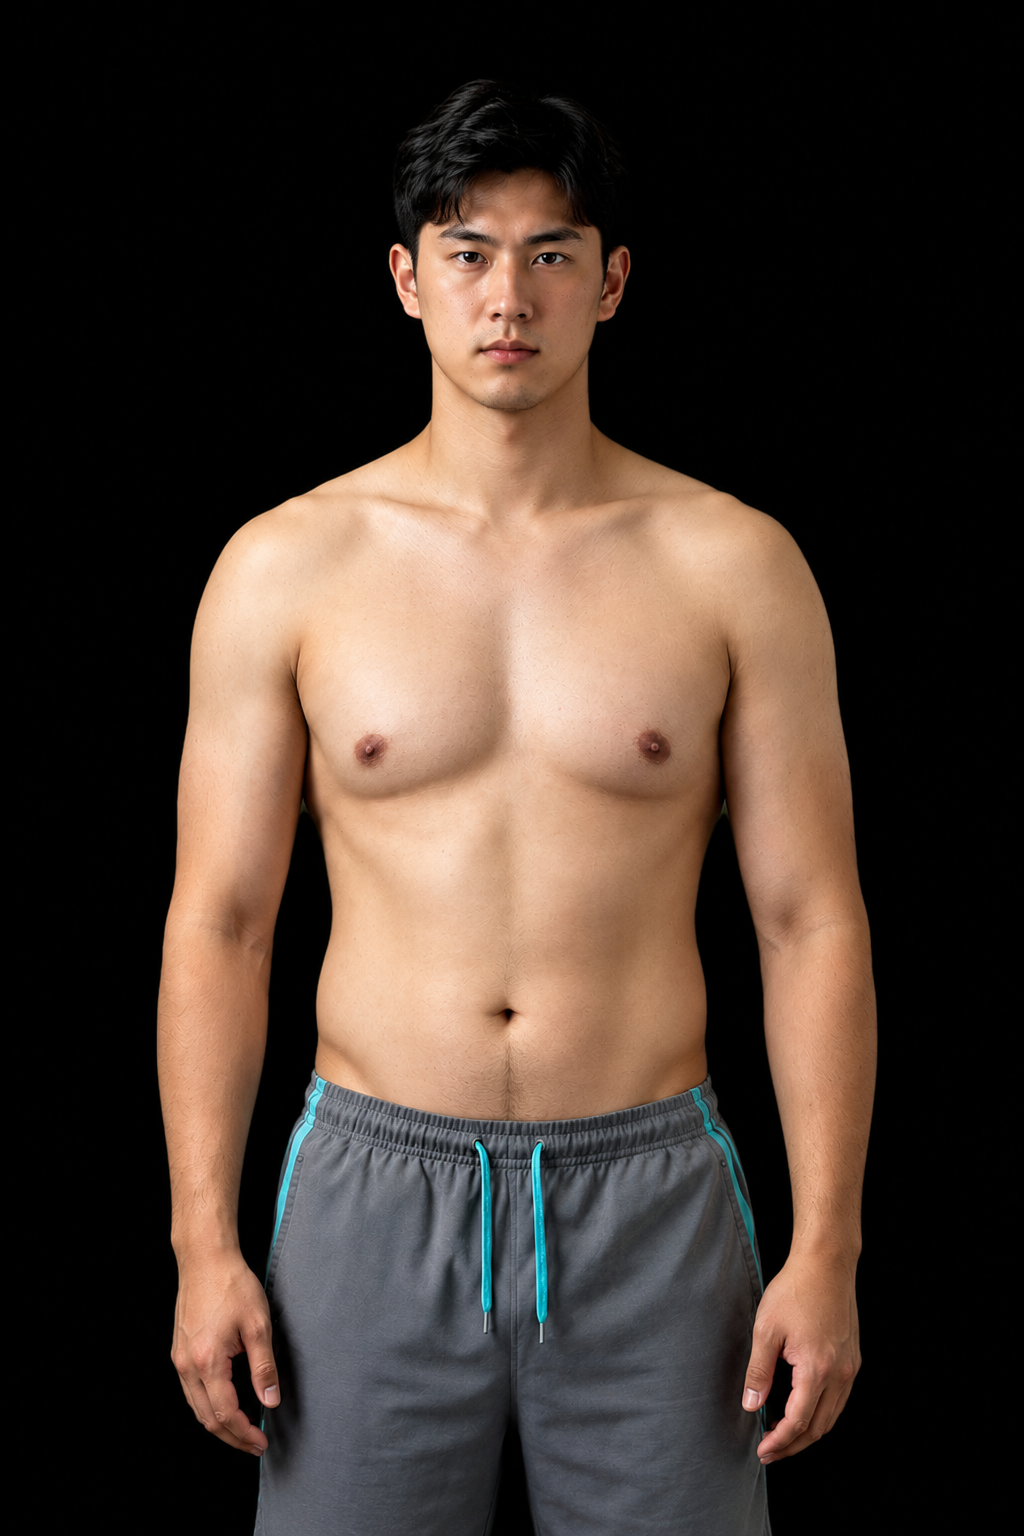
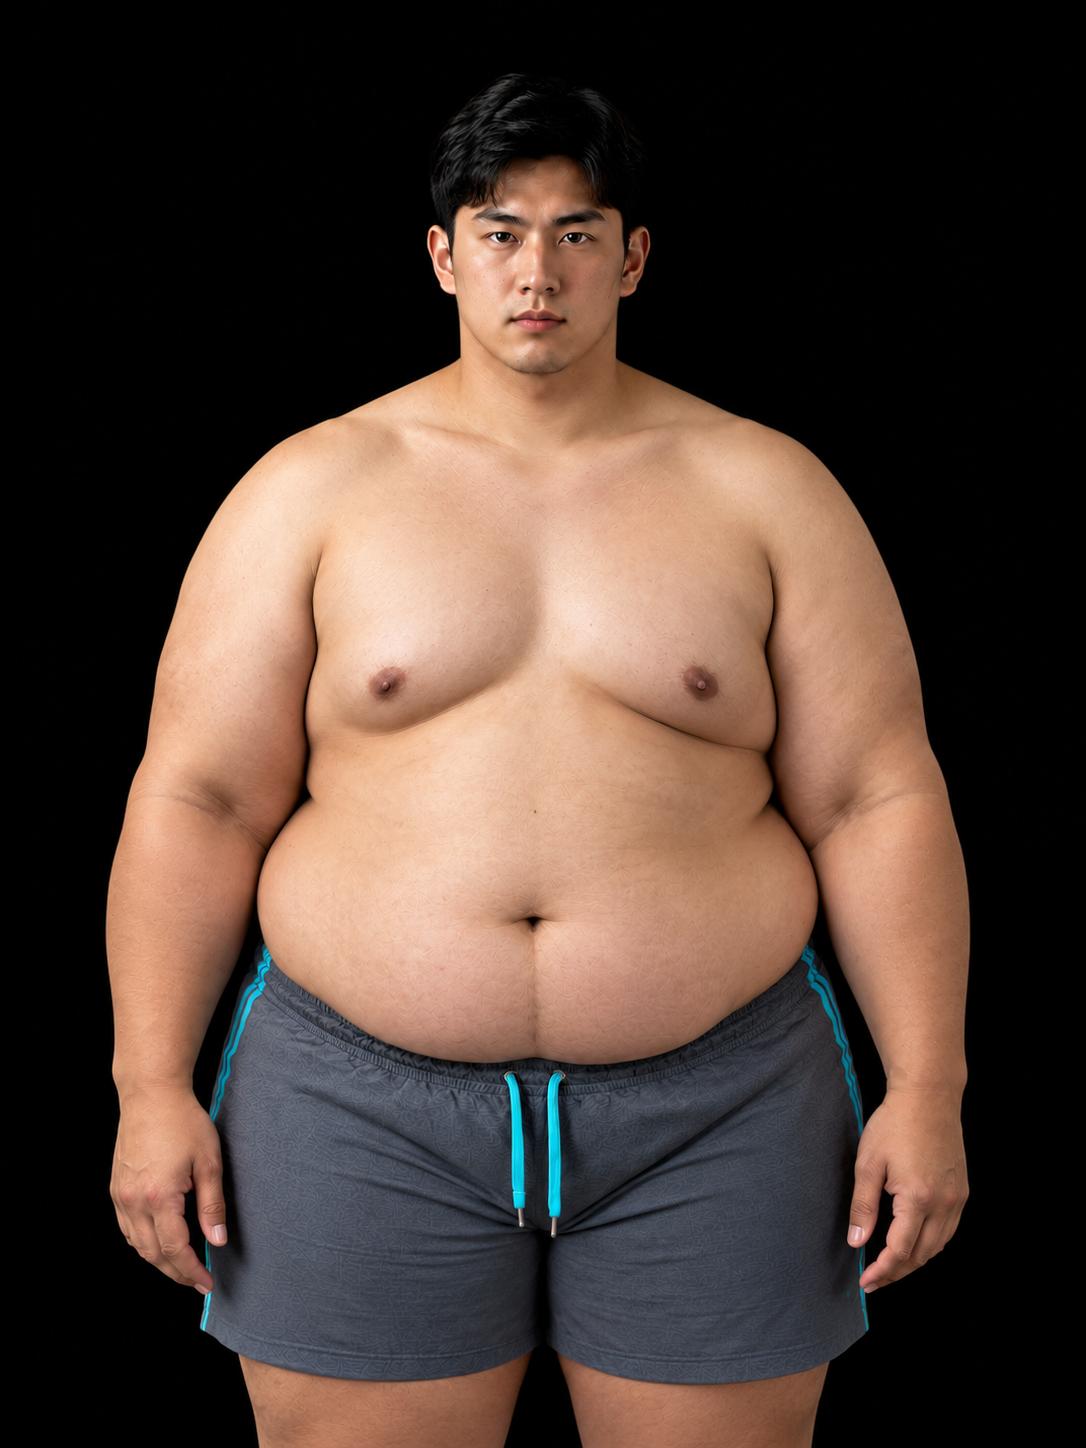
Teste site 2

diff --git a/myh/src/main/resources/static/tema.css b/myh/src/main/resources/static/tema.css
@@ -1161,6 +1161,50 @@ html, body {
     color: #1e3b29 !important;
 }
 
+/* Mantém contraste forte no hover e na seleção das respostas do questionário claro. */
+:root[data-theme="light"] .quiz .opcao:hover,
+:root[data-theme="light"] .quiz .opcao:active,
+:root[data-theme="light"] .quiz .opcao:focus-visible,
+:root[data-theme="light"] .quiz .opcao.selecionada,
+:root[data-theme="light"] .quiz .opcao-card:hover,
+:root[data-theme="light"] .quiz .opcao-card:active,
+:root[data-theme="light"] .quiz .opcao-card:focus-visible,
+:root[data-theme="light"] .quiz .opcao-card.selecionada,
+:root[data-theme="light"] .quiz .opcao-img:hover,
+:root[data-theme="light"] .quiz .opcao-img:active,
+:root[data-theme="light"] .quiz .opcao-img:focus-visible,
+:root[data-theme="light"] .quiz .opcao-img.selecionada {
+    background: #e8f3e5 !important;
+    border-color: #47734a !important;
+    color: #14331f !important;
+    text-shadow: none !important;
+}
+
+:root[data-theme="light"] .quiz .opcao:hover .opcao-label,
+:root[data-theme="light"] .quiz .opcao:active .opcao-label,
+:root[data-theme="light"] .quiz .opcao:focus-visible .opcao-label,
+:root[data-theme="light"] .quiz .opcao.selecionada .opcao-label,
+:root[data-theme="light"] .quiz .opcao:hover .opcao-desc,
+:root[data-theme="light"] .quiz .opcao:active .opcao-desc,
+:root[data-theme="light"] .quiz .opcao:focus-visible .opcao-desc,
+:root[data-theme="light"] .quiz .opcao.selecionada .opcao-desc,
+:root[data-theme="light"] .quiz .opcao-card:hover .opcao-card-texto h3,
+:root[data-theme="light"] .quiz .opcao-card:active .opcao-card-texto h3,
+:root[data-theme="light"] .quiz .opcao-card:focus-visible .opcao-card-texto h3,
+:root[data-theme="light"] .quiz .opcao-card.selecionada .opcao-card-texto h3,
+:root[data-theme="light"] .quiz .opcao-card:hover .opcao-card-texto p,
+:root[data-theme="light"] .quiz .opcao-card:active .opcao-card-texto p,
+:root[data-theme="light"] .quiz .opcao-card:focus-visible .opcao-card-texto p,
+:root[data-theme="light"] .quiz .opcao-card.selecionada .opcao-card-texto p,
+:root[data-theme="light"] .quiz .opcao-img:hover .img-legenda,
+:root[data-theme="light"] .quiz .opcao-img:active .img-legenda,
+:root[data-theme="light"] .quiz .opcao-img:focus-visible .img-legenda,
+:root[data-theme="light"] .quiz .opcao-img.selecionada .img-legenda {
+    color: #14331f !important;
+    -webkit-text-fill-color: #14331f;
+    text-shadow: none !important;
+}
+
 :root[data-theme="dark"] .boas-vindas > span {
     color: #d2e2d7 !important;
 }
